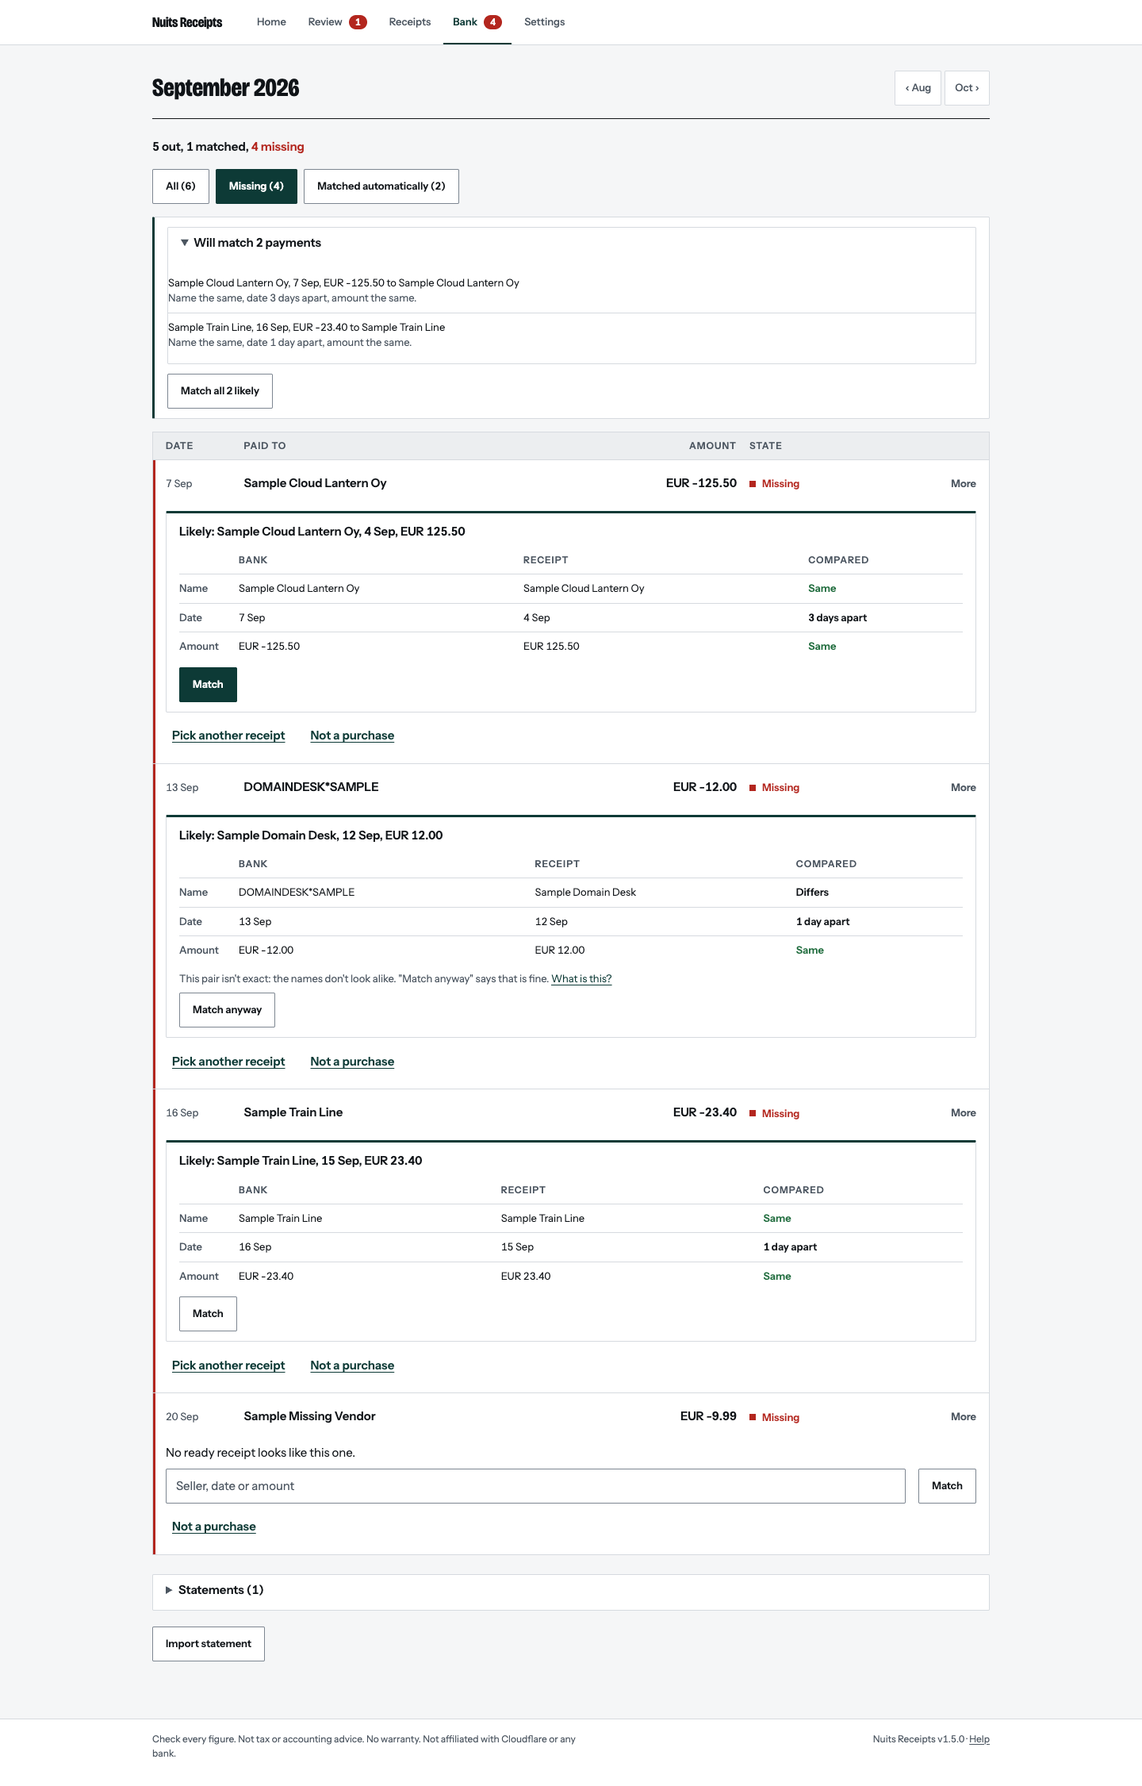
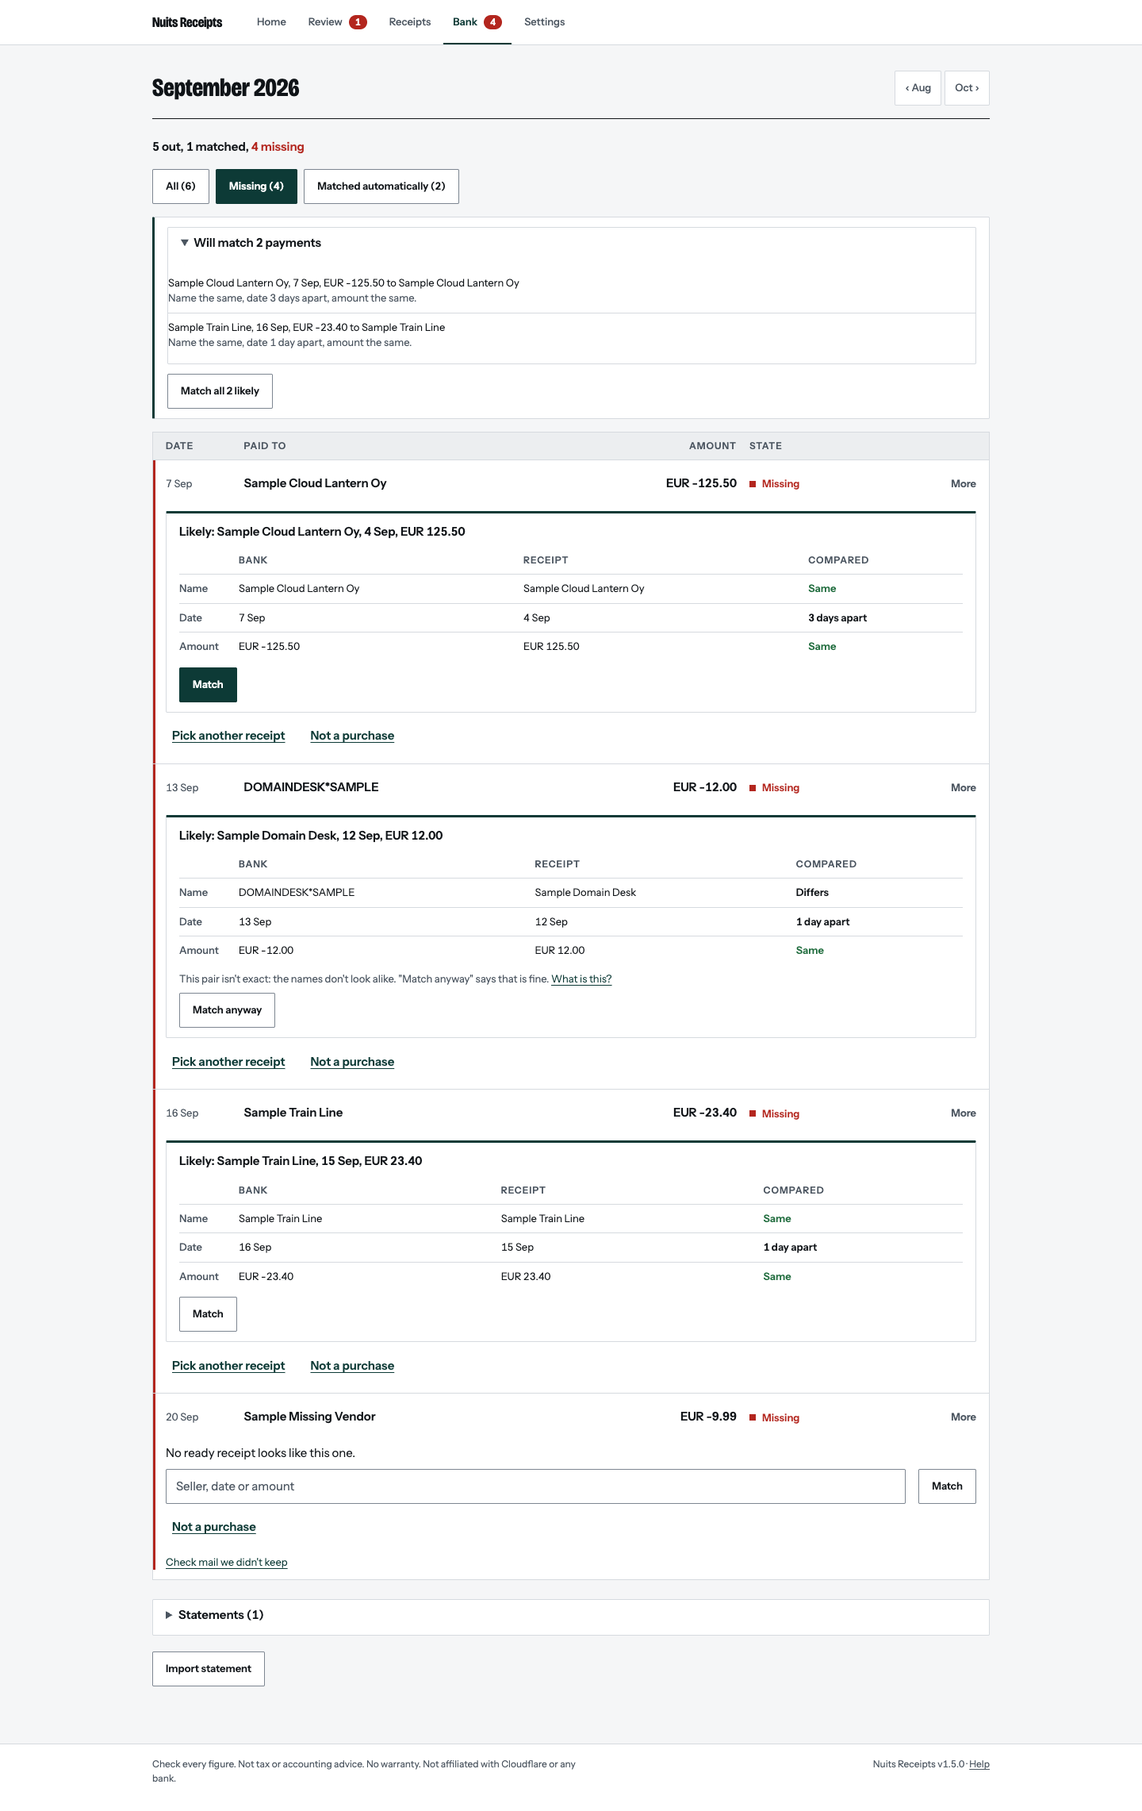
feat(settings): show mail we didn't keep, with Allow this sender (#16)

diff --git a/src/views.ts b/src/views.ts
@@ -9,7 +9,7 @@ import { config, MAX_ALLOWED_SENDERS } from './config';
 import { setupParts, SETTINGS_CSP } from './setup';
 import { setupChecklist, setupSteps } from './checklist';
 import { helpBody } from './help';
-import { heldMail, ignoredSenders } from './inbound';
+import { droppedMail, hasRecentDropped, heldMail, ignoredSenders, reasonAllows, reasonWords } from './inbound';
 import { heldSection } from './all';
 import { mergePlan } from './dedupe';
 import { readableText } from './receipts';
@@ -795,6 +795,7 @@ export async function payments(
         ).all<Receipt>()
       ).results
     : [];
+  const droppedRecently = missing.length ? await hasRecentDropped(env) : false;
   const dayIn = (value: string | null, other: string) =>
     value ? day(value, value.slice(0, 4) !== other.slice(0, 4)) : 'None';
   // Name, Date and Amount side by side, each marked in words, with the one button under it.
@@ -877,7 +878,11 @@ export async function payments(
           : receipts.length
             ? matchControls(t, receipts, 'pick-receipts', 'Receipt', likely, first)
             : `<p class="none">No receipt found yet.</p><a class="btn ${first ? 'primary' : 'secondary'}" href="/add">Add receipt</a>`;
-        controls = `<div class="fixrow">${find}<form action="/payments/${t.id}" method="post"><button class="linkbtn" name="receipt_required" value="0">${STATUS.notPurchase}</button></form></div>${matchError(t.id)}`;
+        const dropped =
+          droppedRecently && !likely && !wait
+            ? `<p class="small"><a href="/settings?open=mail#mail">Check mail we didn't keep</a></p>`
+            : '';
+        controls = `<div class="fixrow">${find}<form action="/payments/${t.id}" method="post"><button class="linkbtn" name="receipt_required" value="0">${STATUS.notPurchase}</button></form></div>${dropped}${matchError(t.id)}`;
         if (receipts.length && !wait) extra.push('<p><a href="/add">Add a receipt</a></p>');
         const sides = credits.filter(
           (c) => c.account_key !== t.account_key && c.currency === t.currency && c.amount_minor === -t.amount_minor,
@@ -1278,12 +1283,32 @@ async function sendersPart(env: Env, open: boolean): Promise<string> {
   return sect('senders', 'Senders', `${allowed.length} allowed`, `${approved}${add}${ignoredList}`, open);
 }
 
+// Settings > Mail we didn't keep: what reached the app and was not read, from
+// the log that is already stored. Never the message itself.
+async function mailLogPart(env: Env, open: boolean): Promise<string> {
+  const rows = await droppedMail(env);
+  const allowed = config(env).allowedSenders;
+  const item = (m: (typeof rows)[number]) => {
+    const when = day(m.received_at.slice(0, 10), m.received_at.slice(0, 4) !== String(new Date().getUTCFullYear()));
+    const offer =
+      reasonAllows(m.reason) && !allowed.has(m.sender) && m.sender.includes('@') && !/[\s<>]/.test(m.sender);
+    const action = offer
+      ? `<form class="sc" action="/senders/approve" method="post"><input type="hidden" name="address" value="${escape(m.sender)}"><input type="hidden" name="back" value="mail"><button class="linkbtn" aria-label="Allow ${escape(m.sender)}">Allow this sender</button></form>`
+      : '';
+    return `<li class="srow"><div class="sl"><span class="flabel">${escape(m.sender)}</span><span class="meta">${escape(when)}${m.subject ? ` · ${escape(m.subject)}` : ''}</span><span class="meta">${escape(reasonWords(m.reason))}</span></div>${action}</li>`;
+  };
+  const body = rows.length
+    ? `<p class="meta">Emails that reached the app but were not read, newest first. Only the sender, subject and reason are kept.</p><ul class="plain rowlist">${rows.map(item).join('')}</ul>`
+    : '<p>Every email that reached the app was kept.</p>';
+  return sect('mail', "Mail we didn't keep", rows.length ? String(rows.length) : 'None', body, open);
+}
+
 // The form that adds a bank account in Settings, as a failure scope names it.
 export const NEW_ACCOUNT = 'account:new';
 export async function settingsPage(env: Env, params = new URLSearchParams(), origin = ''): Promise<Response> {
   const settings = config(env);
   // The section the last action touched opens; the rest stay folded.
-  const opened = feedback(params)?.section ?? '';
+  const opened = feedback(params)?.section ?? (params.get('open') === 'mail' ? 'mail' : '');
   const oneDrive = await oneDrivePart(env, opened === 'onedrive', origin);
   const setup = await setupParts(env, params, opened);
   const [accounts, rules] = await Promise.all([
@@ -1334,6 +1359,7 @@ export async function settingsPage(env: Env, params = new URLSearchParams(), ori
     ),
     sect('setup-email', 'Email', escape(settings.receiptAddress || 'Off'), setup.email, opens('email')),
     await sendersPart(env, opened === 'senders'),
+    await mailLogPart(env, opened === 'mail'),
     accountsPart,
     rulesPart,
     sect('setup-accountant', 'Export', escape(settings.accountantLabel), setup.accountant, opens('accountant')),

diff --git a/test/mail-log.test.ts b/test/mail-log.test.ts
@@ -1,0 +1,77 @@
+import { env } from 'cloudflare:workers';
+import { expect, test } from 'vitest';
+import { droppedMail, hasRecentDropped, MAIL_REASONS, reasonWords } from '../src/inbound';
+import { locationOf, request, signed } from './helpers';
+
+const sources: Record<string, string> = JSON.parse(env.SOURCE_FILES);
+
+test('every reason the code logs has words', () => {
+  const found = new Set<string>();
+  const skip = new Set(['imported', 'held', 'ignored', 'dropped', 'unknown', 'fail', 'pass']);
+  for (const file of ['inbound.ts', 'receipts.ts']) {
+    const text = sources[file] ?? '';
+    expect(text.length, file).toBeGreaterThan(0);
+    for (const m of text.matchAll(/(?:logMail|discard)\([^;]*;/g))
+      for (const t of m[0].matchAll(/'([a-z_]+)'/g)) if (!skip.has(t[1]!)) found.add(t[1]!);
+    for (const m of text.matchAll(/reason='(\w+)'/g)) found.add(m[1]!);
+    for (const m of text.matchAll(/'held','(\w+)'/g)) found.add(m[1]!);
+    for (const m of text.matchAll(/const reason = [^;]*;/g))
+      for (const t of m[0].matchAll(/'([a-z_]+)'/g)) found.add(t[1]!);
+  }
+  for (const word of skip) found.delete(word);
+  expect(found.size).toBeGreaterThan(5);
+  for (const reason of found) expect(Object.keys(MAIL_REASONS), reason).toContain(reason);
+  for (const reason of Object.keys(MAIL_REASONS)) expect(reasonWords(reason).length, reason).toBeGreaterThan(3);
+});
+
+const log = (sender: string, state: string, reason: string, at = new Date().toISOString(), subject = 'Hello') =>
+  env.DB.prepare('INSERT INTO inbound_mail (id,received_at,sender,subject,state,reason) VALUES (?,?,?,?,?,?)')
+    .bind(crypto.randomUUID(), at, sender, subject, state, reason)
+    .run();
+
+test('Settings says so when nothing was dropped', async () => {
+  const html = await (await request('/settings')).text();
+  expect(html).toContain('Every email that reached the app was kept.');
+  expect(await hasRecentDropped(env)).toBe(false);
+});
+
+test('Settings lists dropped mail newest first with words, and offers Allow only where it fits', async () => {
+  await log('shop@elsewhere.example', 'ignored', 'sender_ignored', '2026-09-01T10:00:00.000Z', 'Older <b>one</b>');
+  await log('spoof@bank.example', 'dropped', 'sender_auth_failed', '2026-09-02T10:00:00.000Z');
+  await log('kept@example.org', 'imported', 'allowed', '2026-09-03T10:00:00.000Z');
+  const rows = await droppedMail(env);
+  expect(rows.map((r) => r.sender)).toEqual(['spoof@bank.example', 'shop@elsewhere.example']);
+  const html = await (await request('/settings')).text();
+  expect(html).toContain("Mail we didn't keep");
+  expect(html).toContain('Older &lt;b&gt;one&lt;/b&gt;');
+  expect(html).toContain('Sender not allowed: you chose to ignore them.');
+  expect(html).toContain('Failed the sender check');
+  expect(html).not.toContain('kept@example.org');
+  expect(html).toContain('aria-label="Allow shop@elsewhere.example"');
+  expect(html).not.toContain('aria-label="Allow spoof@bank.example"');
+});
+
+test('Allow this sender names them in a signed banner with Undo, and the Bank link follows recent mail', async () => {
+  await log('shop@elsewhere.example', 'ignored', 'sender_ignored');
+  const form = new FormData();
+  form.set('address', 'shop@elsewhere.example');
+  form.set('back', 'mail');
+  const response = await request('/senders/approve', { method: 'POST', body: form });
+  expect(response.status).toBe(303);
+  const where = locationOf(response);
+  expect(where).toBe('/settings?done=senderAllowed&sender=shop%40elsewhere.example&n=0#mail');
+  const banner = await (
+    await request(await signed('/settings?done=senderAllowed&sender=shop%40elsewhere.example&n=0'))
+  ).text();
+  expect(banner).toContain('Allowed shop@elsewhere.example. Their next emails will be read.');
+  expect(banner).toContain('action="/senders/remove"');
+  expect(banner).toMatch(/<details class="sect" open><summary><h2>Mail we didn't keep/);
+  expect((await droppedMail(env)).length).toBe(1);
+});
+
+test('an old log entry does not count as recent', async () => {
+  await log('old@elsewhere.example', 'dropped', 'duplicate', new Date(Date.now() - 90 * 86400000).toISOString());
+  expect(await hasRecentDropped(env)).toBe(false);
+  await log('new@elsewhere.example', 'dropped', 'duplicate');
+  expect(await hasRecentDropped(env)).toBe(true);
+});

diff --git a/src/inbound.ts b/src/inbound.ts
@@ -47,6 +47,58 @@ export type MailFacts = {
   emailKey?: string | null;
 };
 
+// What each logged reason means, in words for the person. `allow` marks the
+// reasons where the sender was simply not on the list, so the log offers
+// "Allow this sender". test/mail-log.test.ts holds this to every reason the code logs.
+export const MAIL_REASONS = {
+  allowed: { words: 'Read normally.', allow: false },
+  sender_approved: { words: 'Read after you allowed the sender.', allow: false },
+  sender_unverified: { words: "We couldn't confirm who sent it.", allow: false },
+  sender_auth_failed: {
+    words: 'Failed the sender check (SPF or DKIM), so it may not be from who it says.',
+    allow: false,
+  },
+  sender_not_allowed: { words: 'Sender not allowed. Waiting in Review.', allow: true },
+  sender_ignored: { words: 'Sender not allowed: you chose to ignore them.', allow: true },
+  held_limit: { words: 'Sender not allowed, and too many of their emails were already waiting.', allow: true },
+  deleted: { words: 'Sender not allowed: you deleted this email from Review.', allow: true },
+  duplicate: { words: 'Already received: the same message is waiting or was read.', allow: false },
+  email_too_large: { words: 'Too large to read.', allow: false },
+  original_missing: { words: 'Its saved copy was gone, so it could not be read.', allow: false },
+} as const satisfies Record<string, { words: string; allow: boolean }>;
+export const reasonWords = (reason: string): string =>
+  (MAIL_REASONS as Record<string, { words: string }>)[reason]?.words ?? 'Not kept.';
+export const reasonAllows = (reason: string): boolean =>
+  (MAIL_REASONS as Record<string, { allow: boolean }>)[reason]?.allow ?? false;
+
+// Mail that was not kept, newest first. Only what the log stores, never the message.
+export type DroppedMail = Pick<MailRow, 'id' | 'received_at' | 'sender' | 'subject' | 'reason'>;
+export async function droppedMail(env: Env, limit = 50): Promise<DroppedMail[]> {
+  try {
+    return (
+      await env.DB.prepare(
+        "SELECT id,received_at,sender,subject,reason FROM inbound_mail WHERE state IN ('dropped','ignored') ORDER BY received_at DESC,id DESC LIMIT ?",
+      )
+        .bind(limit)
+        .all<DroppedMail>()
+    ).results;
+  } catch {
+    return [];
+  }
+}
+export async function hasRecentDropped(env: Env, days = 60): Promise<boolean> {
+  try {
+    const since = new Date(Date.now() - days * 86400000).toISOString();
+    return !!(await env.DB.prepare(
+      "SELECT 1 FROM inbound_mail WHERE state IN ('dropped','ignored') AND received_at>=? LIMIT 1",
+    )
+      .bind(since)
+      .first());
+  } catch {
+    return false;
+  }
+}
+
 export function domainOf(address: string): string {
   return address.slice(address.lastIndexOf('@') + 1);
 }

diff --git a/src/index.ts b/src/index.ts
@@ -37,7 +37,7 @@ import type { Receipt, Rule } from './domain';
 import { config, ConfigError, isProduct, MIN_PASSWORD_LENGTH, WEAK_PASSWORDS } from './config';
 import { verifyAccessJwt } from './access';
 import { FIELD, withSettings, type SettingKey } from './settings';
-import { approveSender, deleteHeld, ignoreSender, removeApproved, unignoreSender } from './inbound';
+import { approveSender, deleteHeld, ignoreSender, removeApproved, senderAddress, unignoreSender } from './inbound';
 import { allReceiptsPage } from './all';
 import { backPath, discardReason, discardReceipts, receiptIds, restoreBatch, restoreReceipts } from './discard';
 import { resetSetting, saveSetup, SETTINGS_JS } from './setup';
@@ -92,7 +92,9 @@ async function formData(request: Request, limit: number): Promise<FormData> {
 // where to go back to: Review (default), Settings or All receipts.
 async function senderAction(request: Request, env: Env, path: string, who: string, ctx: Waiter): Promise<Response> {
   const form = await formData(request, 4096);
-  const back = ({ settings: '/settings', receipts: '/receipts' } as Record<string, string>)[String(form.get('back'))];
+  const back = ({ settings: '/settings', mail: '/settings', receipts: '/receipts' } as Record<string, string>)[
+    String(form.get('back'))
+  ];
   const address = form.get('address');
   let event: EventKey, n: number | undefined;
   if (path === '/senders/approve') [event, n] = ['mailAllowed', await approveSender(env, address, who, ctx)];
@@ -109,6 +111,9 @@ async function senderAction(request: Request, env: Env, path: string, who: strin
     await unignoreSender(env, address);
     event = 'senderUnignored';
   } else return new Response('Not found', { status: 404 });
+  // Allow this sender, from the mail log: the banner names them and offers Undo.
+  if (path === '/senders/approve' && form.get('back') === 'mail')
+    return redirect(withDone('senderAllowed', '/settings#mail', { sender: senderAddress(address), n }));
   const settings = back === '/settings';
   return redirect(
     withDone(event, settings ? '/settings#senders' : (back ?? '/review'), { n, from: settings ? 'settings' : null }),

diff --git a/src/checklist.ts b/src/checklist.ts
@@ -29,8 +29,12 @@ export async function setupSteps(env: Env): Promise<SetupStep[]> {
   const address = !!settings.receiptAddress;
   // The migration seeds one account, "Bank account"; until it is renamed or another is added, the person has none of their own.
   const own = accounts.some((a) => !(a.id === 'default-account' && a.label === 'Bank account' && !a.bank_name));
-  // Email Routing can't be asked of Cloudflare, so a receipt that arrived by email is the proof.
-  const routed = address && !!state?.mail;
+  // Email Routing can't be asked of Cloudflare, so an email that reached the app is the proof, even one that was not kept.
+  // The log has a row for every email that arrived, kept or not. Missing before its migration.
+  const logged = await env.DB.prepare('SELECT EXISTS(SELECT 1 FROM inbound_mail) n')
+    .first<number>('n')
+    .catch(() => 0);
+  const routed = address && (!!state?.mail || !!logged);
   return [
     {
       id: 'business',
@@ -46,9 +50,9 @@ export async function setupSteps(env: Env): Promise<SetupStep[]> {
       action: address ? 'Confirm Email Routing in Cloudflare' : 'Set your receipt address',
       finished: 'Email Routing confirmed',
       why: routed
-        ? 'A receipt arrived by email, so it works.'
+        ? 'An email reached the app, so it works.'
         : address
-          ? 'Then forward one receipt to check it. A receipt that arrives by email completes this.'
+          ? 'Then forward one receipt to check it. Any email that reaches the app completes this.'
           : 'So receipts you forward are read.',
       href: address ? '/settings?routing=1#setup-email' : '/settings#f-RECEIPT_ADDRESS',
     },

diff --git a/src/events.ts b/src/events.ts
@@ -161,6 +161,22 @@ export const EVENTS = {
     section: (p) => (p.get('from') === 'settings' ? 'senders' : null),
   },
   mailDeleted: { text: () => 'Email deleted.', section: (p) => (p.get('from') === 'settings' ? 'senders' : null) },
+  // Allow this sender, from Settings > Mail we didn't keep. Undo takes them off the list again.
+  senderAllowed: {
+    text: (p) => {
+      const sender = words(p, 'sender', 'The sender');
+      return count(p, 'n')
+        ? `Allowed ${sender}. Reading ${plural(count(p, 'n'), 'email')}.`
+        : `Allowed ${sender}. Their next emails will be read.`;
+    },
+    undo: (p) => {
+      const sender = p.get('sender') ?? '';
+      return /^[^\s@<>()",;:]+@[^\s@<>()",;:]+\.[^\s@<>()",;:]+$/.test(sender) && sender.length <= 254
+        ? { action: '/senders/remove', fields: { address: sender, back: 'settings' } }
+        : null;
+    },
+    section: () => 'mail',
+  },
   senderRemoved: { text: () => 'Sender removed.', section: () => 'senders' },
   senderUnignored: { text: () => 'No longer ignored.', section: () => 'senders' },
   // ---------- Bank ----------

diff --git a/src/help.ts b/src/help.ts
@@ -58,6 +58,11 @@ const GLOSSARY: readonly HelpEntry[] = [
     term: 'Email Routing',
     text: 'A Cloudflare feature that hands the mail sent to your receipt address to this app. You add a rule once, in Cloudflare under Email, Email Routing, with the action Send to a Worker. The app can’t add it for you. It is confirmed when a forwarded receipt arrives.',
   },
+  {
+    ids: ['mail-not-kept'],
+    term: "Mail we didn't keep",
+    text: 'Email that reached the app but was not read: from a sender that is not allowed, one that failed the sender check, a duplicate, or one too large. Settings, Email shows the latest 50 with the date, sender, subject and why. The message itself is never shown. If the sender is one you trust, press Allow this sender.',
+  },
 ];
 
 const MATCHING: readonly HelpEntry[] = [

diff --git a/test/settings.test.ts b/test/settings.test.ts
@@ -157,6 +157,7 @@ test('the page is one fold per section, one Save per group and history tucked aw
     'setup-business',
     'setup-email',
     'senders',
+    'mail',
     'accounts',
     'rules',
     'setup-accountant',

diff --git a/docs/app-v3/after/RESULTS.md b/docs/app-v3/after/RESULTS.md
@@ -18,14 +18,14 @@ Screens: `/` → `/receipts/:id?done=uploaded` → `/` → `/settings` → `/set
 
 - Welcome screen says: Welcome Finish setting up 1 of 5 done DONE: Business name added So invoices you send are told apart from receipts. NEXT: Confirm Email Routing in Cloudflare The
 - Landed on /receipts/:id with title "Sample Cloud Lantern Oy"
-- Home after the first receipt: Finish setting up 1 of 5 done DONE: Business name added So invoices you send are told apart from receipts. NEXT: Confirm Email Routing in Cloudflare Then forward one receipt to check it. A receipt that arrives by email c
+- Home after the first receipt: Finish setting up 1 of 5 done DONE: Business name added So invoices you send are told apart from receipts. NEXT: Confirm Email Routing in Cloudflare Then forward one receipt to check it. Any email that reaches the app co
 - Saved: Saved your accountant.
 
 ### a. Mail arrives, every receipt approved
 
 Screens: `/` → `/review` → `/receipts/:id` → `/receipts/:id?done=approved` → `/review?done=approvedLast&month=2026-09&step=import`
 
-- Home on arrival (oldest month not sent): ‹ Aug September 2026 Oct › Finish setting up 3 of 5 done DONE: Business name added So invoices you send are told apart from receipts. DONE: Email Routing confirmed A receipt arrived by email, so it wo
+- Home on arrival (oldest month not sent): ‹ Aug September 2026 Oct › Finish setting up 3 of 5 done DONE: Business name added So invoices you send are told apart from receipts. DONE: Email Routing confirmed An email reached the app, so it work
 - Review lists 3 receipts.
 - Approved 3: Sample Coffee Corner, Sample Train Line, Sample Print Shop. Ended on /review.
 
@@ -47,7 +47,7 @@ Screens: `/receipts` → `/invoices` → `/add?kind=sales` → `/payments`
 
 ### c. September closed and marked sent
 
-Screens: `/` → `/?month=2026-09&done=sent&at=2026-10-24T16%3A23%3A18.071Z`
+Screens: `/` → `/?month=2026-09&done=sent&at=2026-10-24T16%3A48%3A03.733Z`
 
 - Home on arrival (September, the oldest month not sent): ‹ Aug September 2026 Oct › September isn't sent yet. It is ready to send. · Go to October DONE: Check All checked DONE: Match All matched NEXT: Send Ready Spent EUR 250.22 Download ZIP (4 KB) CSV Chec
 - Downloaded receipts-2026-09.zip
@@ -81,9 +81,11 @@ Screens: `/` → `/?month=2026-09&done=sent&at=2026-10-24T16%3A23%3A18.071Z`
 | [invoices](screens/invoices-1440.png) | 1440 | 1 | 0 |
 | [invoices](screens/invoices-390.png) | 390 | 1 | 0 |
 | [settings](screens/settings-1440.png) | 1440 | 1 | 0 |
-| [settings](screens/settings-390.png) | 390 | 1 | 0 |
-| [bank-likely](screens/bank-likely-1440.png) | 1440 | 2.5 | 0 |
-| [bank-likely](screens/bank-likely-390.png) | 390 | 2.67 | 0 |
+| [settings](screens/settings-390.png) | 390 | 1.04 | 0 |
+| [settings-mail](screens/settings-mail-1440.png) | 1440 | 1.16 | 0 |
+| [settings-mail](screens/settings-mail-390.png) | 390 | 1.31 | 0 |
+| [bank-likely](screens/bank-likely-1440.png) | 1440 | 2.54 | 0 |
+| [bank-likely](screens/bank-likely-390.png) | 390 | 2.71 | 0 |
 | [help](screens/help-1440.png) | 1440 | 1.58 | 0 |
 | [help](screens/help-390.png) | 390 | 2.24 | 0 |
 | [help-flags](screens/help-flags-1440.png) | 1440 | 1.78 | 0 |
